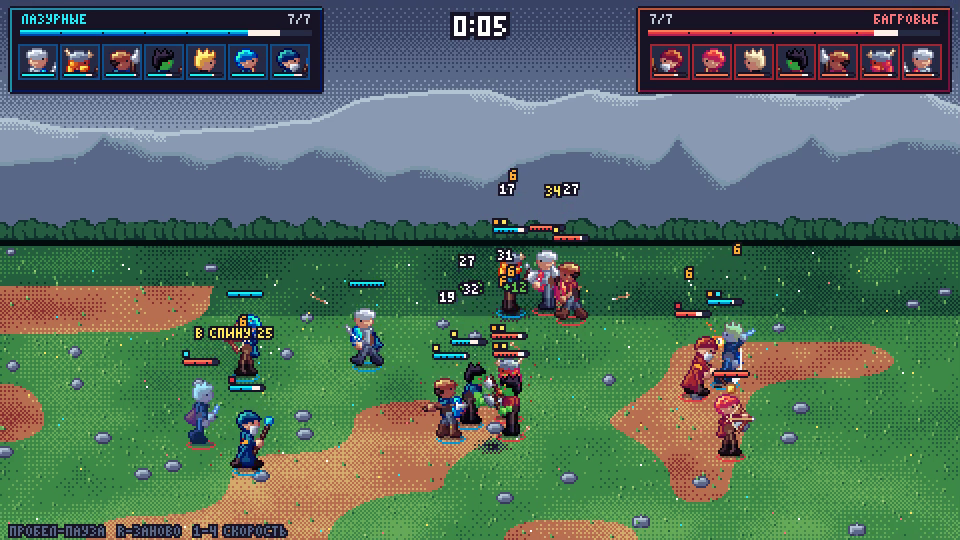
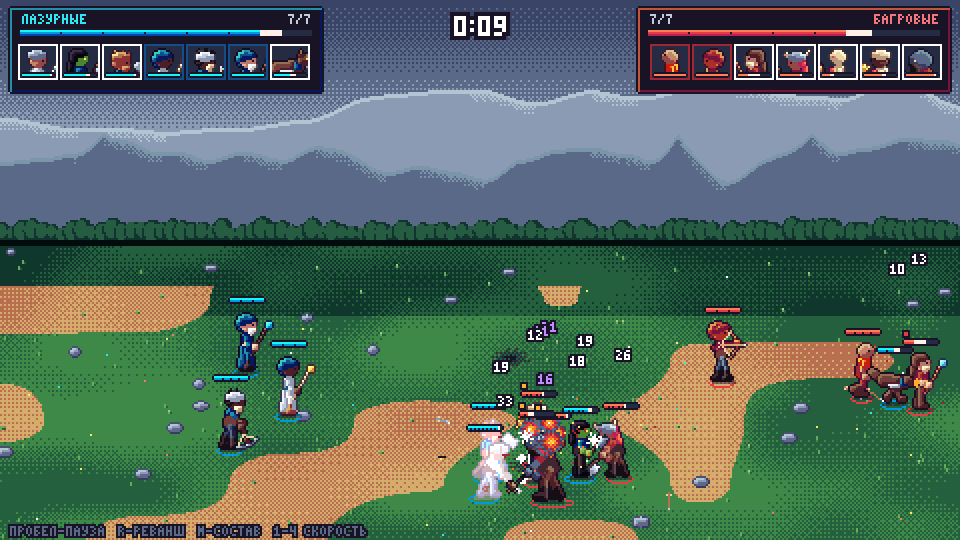
Crisper pixel art: dark silhouettes, despeckle, DPI-aware integer scaling
- Unit sprites: outlines pulled toward near-black (tinted by the material)
  instead of the material's own dark tone, no lightened outline on the lit
  side, and a despeckle pass removing lone 1px shade pixels.
- Windows: the process declares DPI awareness, so 125%/150% display scaling
  no longer stretches the window with smoothing.
- Fullscreen renders at the desktop resolution with whole-number scaling and
  black bars instead of SDL's fractional scaling; SDL scale quality forced
  to nearest.
- Calmer battlefield ground (two close tones, fewer tiny details) so units
  stand out.

Claude-Session: https://claude.ai/code/session_01MR1dGkQ8mMpcRWirygjCXZ

diff --git a/battle.py b/battle.py
@@ -22,6 +22,35 @@ ROOT = os.path.dirname(os.path.abspath(__file__))
 sys.path.insert(0, ROOT)
 
 
+def _dpi_aware() -> None:
+    """Tell Windows we draw at real pixels: otherwise display scaling (125%/150%)
+    stretches the window with smoothing and the pixel art looks blurry."""
+    if sys.platform != "win32":
+        return
+    import ctypes
+    try:
+        ctypes.windll.shcore.SetProcessDpiAwareness(2)      # per-monitor aware
+    except Exception:
+        try:
+            ctypes.windll.user32.SetProcessDPIAware()
+        except Exception:
+            pass
+
+
+def present(logical, screen):
+    """Blit the 480x270 frame scaled by a whole number (nearest neighbour), centred.
+    Returns (offset_x, offset_y, scale) so mouse positions can be mapped back."""
+    import pygame
+    from game.sim import H, W
+    sw, sh = screen.get_size()
+    k = max(1, min(sw // W, sh // H))
+    ox, oy = (sw - W * k) // 2, (sh - H * k) // 2
+    if (ox, oy) != (0, 0):
+        screen.fill((0, 0, 0))
+    screen.blit(pygame.transform.scale(logical, (W * k, H * k)), (ox, oy))
+    return ox, oy, k
+
+
 def _icon_surface():
     """Window/taskbar icon: the engine's sword icon, scaled up pixel-perfect."""
     import pygame
@@ -40,7 +69,7 @@ def _loading(screen, scale, font, name, i, n):
     pygame.draw.rect(surf, (90, 105, 136), (W // 2 - 80, H // 2, 160, 6), 1)
     pygame.draw.rect(surf, (44, 232, 245), (W // 2 - 79, H // 2 + 1, int(158 * (i + 1) / n), 4))
     font.draw(surf, name.upper().replace("_", " "), W // 2, H // 2 + 12, "#8b9bb4", anchor="center")
-    pygame.transform.scale(surf, screen.get_size(), screen)
+    present(surf, screen)
     pygame.display.flip()
     pygame.event.pump()
 
@@ -71,6 +100,8 @@ def main(argv=None) -> int:
         os.environ["SDL_VIDEODRIVER"] = "dummy"
         os.environ["SDL_AUDIODRIVER"] = "dummy"
     os.environ.setdefault("PYGAME_HIDE_SUPPORT_PROMPT", "1")
+    os.environ.setdefault("SDL_RENDER_SCALE_QUALITY", "0")   # never smooth when SDL scales
+    _dpi_aware()
     import pygame
     from game.assets import SpriteFactory, ensure_unit_sheets
     from game.audio import Sfx
@@ -129,6 +160,7 @@ def _run(args, screen, scale, font, factory, renderer, logical, menu, seed, load
         prefetch(menu.squads, new_seed + 1, factory)     # draw the next battle's faces in the background
         return w
 
+    view = (0, 0, scale)
     if args.auto:
         world = start(seed)
     while True:
@@ -140,16 +172,16 @@ def _run(args, screen, scale, font, factory, renderer, logical, menu, seed, load
             print(f"ok: {where} seed={seed} sfx={'on' if sfx.ok else 'off'}")
             return 0
         mx, my = pygame.mouse.get_pos()
-        sw, sh = screen.get_size()
-        mouse = (mx * W // max(1, sw), my * H // max(1, sh))
+        mouse = ((mx - view[0]) // view[2], (my - view[1]) // view[2])
         for ev in pygame.event.get():
             if ev.type == pygame.QUIT:
                 pygame.quit()
                 return 0
             if ev.type == pygame.KEYDOWN and ev.key == pygame.K_f:
                 fullscreen = not fullscreen
-                flags = pygame.FULLSCREEN | pygame.SCALED if fullscreen else 0
-                screen = pygame.display.set_mode((W * scale, H * scale), flags)
+                # fullscreen at the desktop resolution; present() keeps whole-number scaling
+                screen = (pygame.display.set_mode((0, 0), pygame.FULLSCREEN) if fullscreen
+                          else pygame.display.set_mode((W * scale, H * scale)))
                 continue
             if world is None:
                 action = menu.handle(ev, mouse)
@@ -185,7 +217,7 @@ def _run(args, screen, scale, font, factory, renderer, logical, menu, seed, load
                 seed += 1
                 world = start(seed)                       # rematch: same squads, new faces
             renderer.draw(world, logical, real, paused, speed)
-        pygame.transform.scale(logical, screen.get_size(), screen)
+        view = present(logical, screen)
         pygame.display.flip()
 
 

diff --git a/pixelforge/shading.py b/pixelforge/shading.py
@@ -102,6 +102,8 @@ class Shader:
     shadow_width: int = 2                       # px depth of the shadow band
     contours: bool = True
     selout_lit_mix: float = 0.45                # how much lighter the lit outline is
+    outline_darken: float = 0.0                 # pull selout colors toward ``outline_color`` (crisper silhouettes)
+    despeckle: bool = False                     # remove lone 1px shade pixels (cleaner, less "noisy" look)
 
     def __post_init__(self):
         lx, ly = self.light
@@ -153,10 +155,33 @@ class Shader:
     # --- passes ---------------------------------------------------------------
     def render(self, buf: PartBuffer) -> Canvas:
         out = Canvas(buf.width, buf.height)
-        for x, y, ink in buf.items():
-            out.set(x, y, ink.material.color(self.level_at(buf, x, y)))
+        levels = {(x, y): self.level_at(buf, x, y) for x, y, _ in buf.items()}
+        if self.despeckle:
+            levels = self._despeckle(buf, levels)
+        for (x, y), lvl in levels.items():
+            out.set(x, y, buf.get(x, y).material.color(lvl))
         if self.outline != "none":
             self._outline(buf, out)
+        return out
+
+    @staticmethod
+    def _despeckle(buf: PartBuffer, levels: dict) -> dict:
+        """A pixel whose shade differs from all 4 neighbours of its own group, which
+        agree with each other, takes their shade - removes noisy single pixels."""
+        out = dict(levels)
+        for (x, y), lvl in levels.items():
+            ink = buf.get(x, y)
+            if ink.level is not None:
+                continue
+            around = []
+            for dx, dy in _N4:
+                o = buf.get(x + dx, y + dy)
+                if o is None or o.group != ink.group:
+                    break
+                around.append(levels[(x + dx, y + dy)])
+            else:
+                if len(set(around)) == 1 and around[0] != lvl:
+                    out[(x, y)] = around[0]
         return out
 
     def _outline(self, buf: PartBuffer, out: Canvas) -> None:
@@ -185,6 +210,8 @@ class Shader:
                     c = m.outline or m.color(OUTLINE)
                     if lit and m.outline is None and self.selout_lit_mix > 0:
                         c = mix(c, m.color(SHADOW), self.selout_lit_mix)
+                    if self.outline_darken > 0:
+                        c = mix(c, self.outline_color, self.outline_darken)
                 out.set(x, y, c)
 
 

diff --git a/game/assets.py b/game/assets.py
@@ -296,19 +296,21 @@ def background(w: int, h: int, horizon: int, seed: int = 4) -> Canvas:
     for y in range(horizon + 3, h):
         depth = (y - horizon) / (h - horizon)        # 0 far .. 1 near
         for x in range(w):
-            v = fnoise.fbm(x / 40, y / 22, 3)
+            # calm ground: two close tones in big soft patches, so units stand out
+            v = fnoise.fbm(x / 70, y / 35, 2)
             patch = fnoise(x / 70 + 5, y / 30 + 5)
             if patch > 0.72 and depth > 0.15:
-                col = pfx.dither_pick(d[1:4], v, x, y)
+                col = pfx.dither_pick(d[2:4], v, x, y)
             else:
-                col = pfx.dither_pick(g[1:4] if depth > 0.25 else g[0:3], v * 0.8 + depth * 0.25, x, y)
+                tones = g[1:3] if depth > 0.25 else g[0:2]
+                col = pfx.dither_pick(tones, min(0.99, max(0.0, (v - 0.5) * 2.2 + 0.5)), x, y)
             c.set(x, y, col)
     # tufts / flowers / rocks, denser and bigger near the camera
     rock = Material.of("rock", "#8b9bb4")
-    for _ in range(int(w * h / 260)):
+    for _ in range(int(w * h / 700)):
         x, y = rnd.randrange(w), rnd.randrange(horizon + 6, h)
         k = rnd.random()
-        if k < 0.75:
+        if k < 0.7:
             c.set(x, y, g[3])
             c.set(x, y - 1, g[4] if rnd.random() < 0.3 else g[3])
             c.set(x + 1, y, g[1])

diff --git a/pixelforge/units/creatures.py b/pixelforge/units/creatures.py
@@ -17,6 +17,7 @@ from ..anim import Animation, Sprite, from_poses
 from ..color import ColorLike, mix
 from ..rig import Blob, Limb, Pixels, Poly, Pose, Rig
 from ..shading import BASE, HIGHLIGHT, LIGHT, Ink, Material, PartBuffer, Shader
+from .humanoid import CRISP
 
 
 # --- slime ----------------------------------------------------------------------
@@ -136,7 +137,7 @@ def build_quad_rig(spec: QuadSpec) -> Rig:
     belly = Material.of("belly", spec.belly)
     eye = Material.of("eye", spec.eye, flat=True)
     nose = Material.of("nose", spec.nose, flat=True)
-    rig = Rig(W, H, (W * 0.36, H - 3 - spec.leg_len * 2 - 1), Shader())
+    rig = Rig(W, H, (W * 0.36, H - 3 - spec.leg_len * 2 - 1), Shader(**CRISP))
     L, bw = spec.body_len, spec.body_w
 
     rig.bone("root", None, 0)

diff --git a/pixelforge/units/humanoid.py b/pixelforge/units/humanoid.py
@@ -77,10 +77,15 @@ def _materials(spec: HumanoidSpec) -> Dict[str, Material]:
     return m
 
 
+# crisp unit look: near-black silhouette (tinted by the material), no lightened outline
+# on the lit side, no single-pixel shading noise - reads clearly at 1x on any background
+CRISP = dict(selout_lit_mix=0.0, outline_darken=0.6, despeckle=True)
+
+
 def build_rig(spec: HumanoidSpec) -> Rig:
     s = spec.size / 32.0
     m = _materials(spec)
-    shader = Shader(outline=spec.outline)
+    shader = Shader(outline=spec.outline, **CRISP)
     fw, fh = frame_size(spec)
     rig = Rig(fw, fh, (fw // 2 - 1, ground_row(spec) - 10 * s), shader)
 

diff --git a/game/render.py b/game/render.py
@@ -149,7 +149,7 @@ class Renderer:
         self.metas: Dict[str, dict] = dict(metas)
         self._art: Dict[str, UnitArt] = {}
         self._portraits: Dict[tuple, pygame.Surface] = {}
-        bg_path = assets.cache_dir() / "background.png"
+        bg_path = assets.cache_dir() / "background_v2.png"
         if bg_path.exists():
             self.bg = pygame.image.load(str(bg_path)).convert()
         else:

diff --git a/CLAUDE.md b/CLAUDE.md
@@ -21,6 +21,9 @@ PixelForge: Python engine that generates all pixel-art graphics in code. Only de
   per entry, `("NAME", "short description")`; keep them true to the mechanics. Menu shows them in that order.
   Plain stats (HP, armor, speed, damage, range, cooldown, dodge) are shown as stats, never as traits.
 - No screen shake (user request); impact feel comes from hit-stop and slow-mo.
+- Crispness (user request): units use `CRISP` shader settings (near-black tinted outline, no lit-side outline,
+  despeckle); the ground stays calm (2 tones); the window is DPI-aware on Windows and `present()` only ever
+  scales by whole numbers (letterboxed in fullscreen).
 - Inspect visually: record with `--record`, then `ffmpeg ... -vf "fps=6,tile=3x3"` to look at frame sequences.
 
 ## How to add graphics
